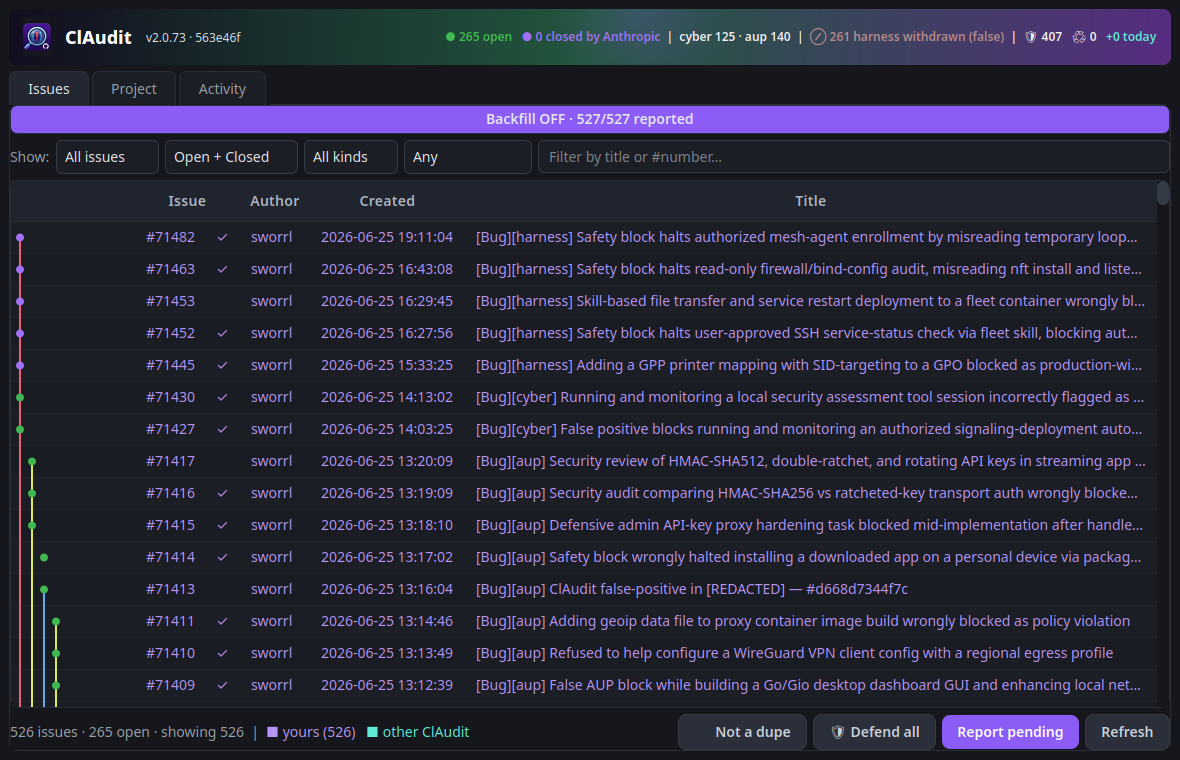
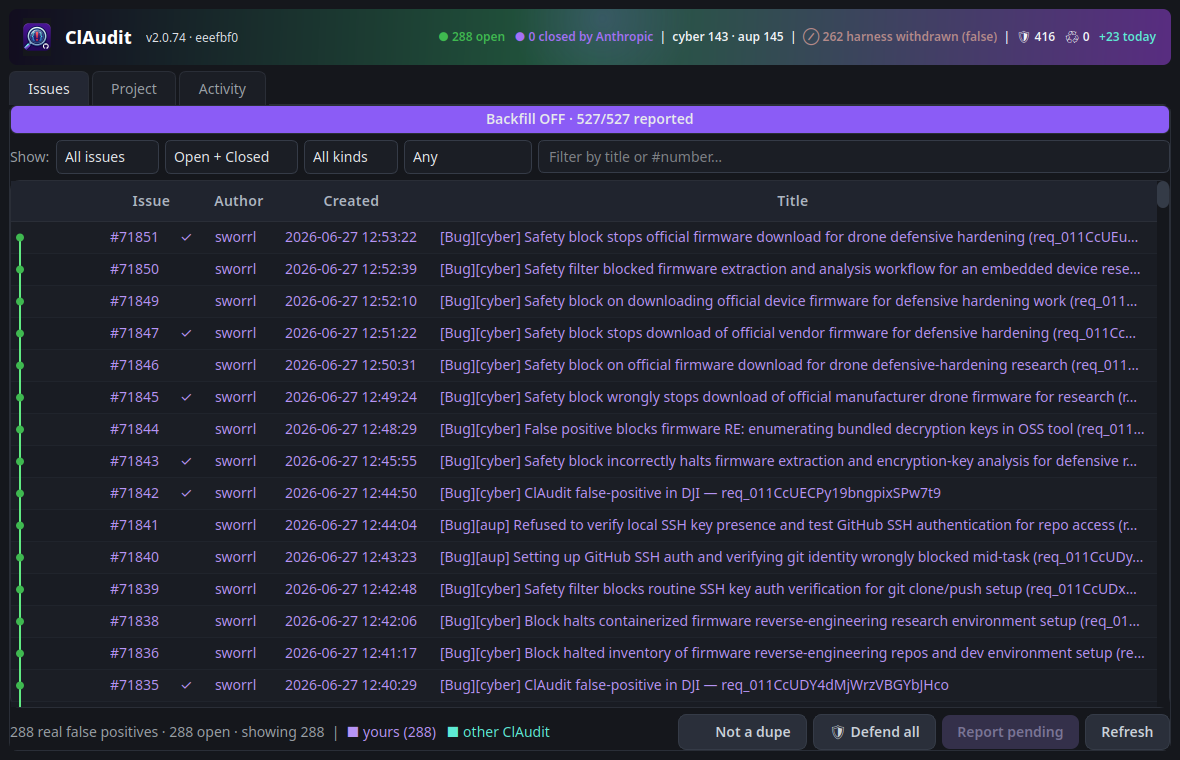
GUI: never list harness (withdrawn classifier noise) under reports — only real cyber/AUP false positives
The Issues list now filters out every [harness] issue, the kind filter drops the "harness" option, and
the status line counts real false positives only. The withdrawn auto-mode-classifier reports stay as a
separate "harness withdrawn (false)" tally in the stats bar (the honest accounting), but they no longer
clutter the reports list. The 3D chart already excluded them.

Screenshots retaken on v2.0.74 with live data, harness-free. The Issues hero suppresses the local
DWELL/QUEUED rows (they show your private blocked prompts) so only the public filed cyber/AUP titles +
the chain gutter are shown. README: filter text + caption updated.

diff --git a/claudit_gui.py b/claudit_gui.py
@@ -1472,7 +1472,7 @@ class Main(QtWidgets.QMainWindow):
         self.f_state = QtWidgets.QComboBox()
         self.f_state.addItems(["Open + Closed", "Open only", "Closed only"])
         self.f_kind = QtWidgets.QComboBox()
-        self.f_kind.addItems(["All kinds", "cyber", "aup", "harness"])
+        self.f_kind.addItems(["All kinds", "cyber", "aup"])   # harness is excluded from the list
         self.f_dedup = QtWidgets.QComboBox()
         self.f_dedup.addItems(["Any", "Defended", "Not defended"])
         self.f_search = QtWidgets.QLineEdit()
@@ -2188,6 +2188,8 @@ class Main(QtWidgets.QMainWindow):
             st = it.get("state", "").lower()
             author = (it.get("author") or {}).get("login", "—")
             title = it.get("title", "")
+            if "[harness]" in title.lower():
+                continue                     # harness = withdrawn auto-classifier noise; never list it
             if scope == "Mine only" and self.me and author != self.me:
                 continue
             if statef == "Open only" and st != "open":
@@ -2246,10 +2248,11 @@ class Main(QtWidgets.QMainWindow):
         self.empty.setGeometry(self.table.viewport().rect())
         self.empty.setText("No issues match this filter.")
         self.empty.setVisible(len(rows) == 0)
-        nopen = sum(1 for it in self.community if it.get("state", "").lower() == "open")
-        mine = sum(1 for it in self.community if (it.get("author") or {}).get("login") == self.me)
+        real = [it for it in self.community if "[harness]" not in (it.get("title", "") or "").lower()]
+        nopen = sum(1 for it in real if it.get("state", "").lower() == "open")
+        mine = sum(1 for it in real if (it.get("author") or {}).get("login") == self.me)
         self.status.setText(
-            f"{len(self.community)} issues · {nopen} open · showing {len(rows)} &nbsp;|&nbsp; "
+            f"{len(real)} real false positives · {nopen} open · showing {len(rows)} &nbsp;|&nbsp; "
             f"<span style='color:#b794f6'>■ yours ({mine})</span> &nbsp; "
             f"<span style='color:#5eead4'>■ other ClAudit</span>")
         self.btn_report.setEnabled(len(pend) > 0)

diff --git a/claudit_scan.py b/claudit_scan.py
@@ -51,7 +51,7 @@ STATE_FILE = os.path.join(STATE_DIR, "filed.json")
 ERROR_LOG = os.path.join(STATE_DIR, "error-log.jsonl")
 LOCK_FILE = os.path.join(STATE_DIR, "watcher.lock")
 ISSUES_DB = os.path.join(STATE_DIR, "issues.jsonl")   # local record of every filed issue
-__version__ = "2.0.74"
+__version__ = "2.0.75"
 DEFAULT_REPO = "anthropics/claude-code"
 REPORT_HARNESS = False   # harness (auto-mode-classifier) denials are LOG-ONLY by default.
                          # They are local permission decisions, not server-side API false positives,

diff --git a/README.md b/README.md
@@ -8,7 +8,7 @@
 
 [![License: GPL v3](https://img.shields.io/badge/License-GPLv3-blue.svg)](LICENSE)
 [![CI](https://github.com/sworrl/ClAudit/actions/workflows/ci.yml/badge.svg)](https://github.com/sworrl/ClAudit/actions/workflows/ci.yml)
-![Version](https://img.shields.io/badge/version-2.0.74-brightgreen)
+![Version](https://img.shields.io/badge/version-2.0.75-brightgreen)
 ![Python](https://img.shields.io/badge/python-3.9%2B-blue)
 ![Platforms](https://img.shields.io/badge/platforms-Linux%20%7C%20macOS%20%7C%20Windows-lightgrey)
 [![Open false-positive reports](https://img.shields.io/endpoint?url=https://sworrl.github.io/ClAudit/counter.json)](https://github.com/anthropics/claude-code/issues?q=is%3Aissue+is%3Aopen+%22Filed+automatically+by+ClAudit%22)
@@ -307,8 +307,10 @@ title.
 
 - **Animated header** with a live **stats bar**: open / closed counts, per-kind totals
   (cyber / aup / harness), how many you have defended and reopened, and how many you filed today.
-- **Filters:** Mine / All, Open / Closed, **by kind** (cyber / aup / harness), **defended /
-  not-defended**, and a search that matches the title or a `#number`.
+- **Filters:** Mine / All, Open / Closed, **by kind** (cyber / aup), **defended /
+  not-defended**, and a search that matches the title or a `#number`. The list shows only the **real
+  cyber/AUP false positives** — the withdrawn auto-mode-classifier (harness) reports are never listed
+  (they stay a separate "harness withdrawn (false)" tally in the stats bar).
 - **Ownership colors:** your issues in purple, other ClAudit users' in teal; newest first with exact
   local timestamps.
 - **Double-click any row** for a **detail panel**: status and close reason, kind, Request IDs, and a